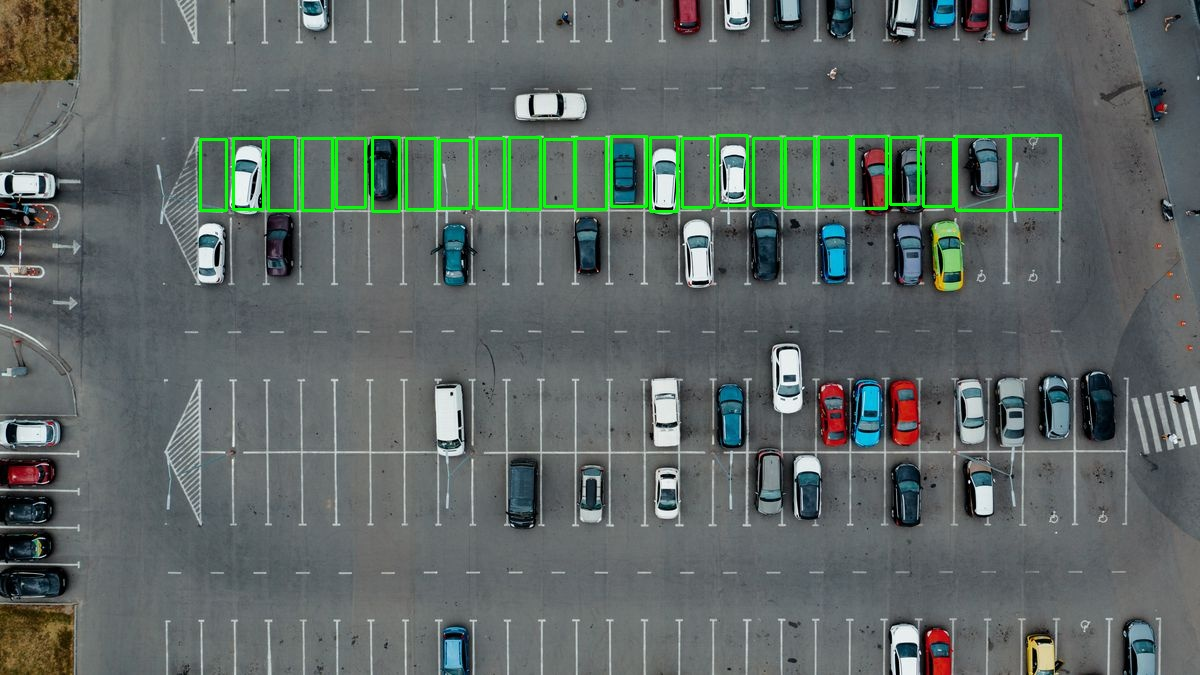
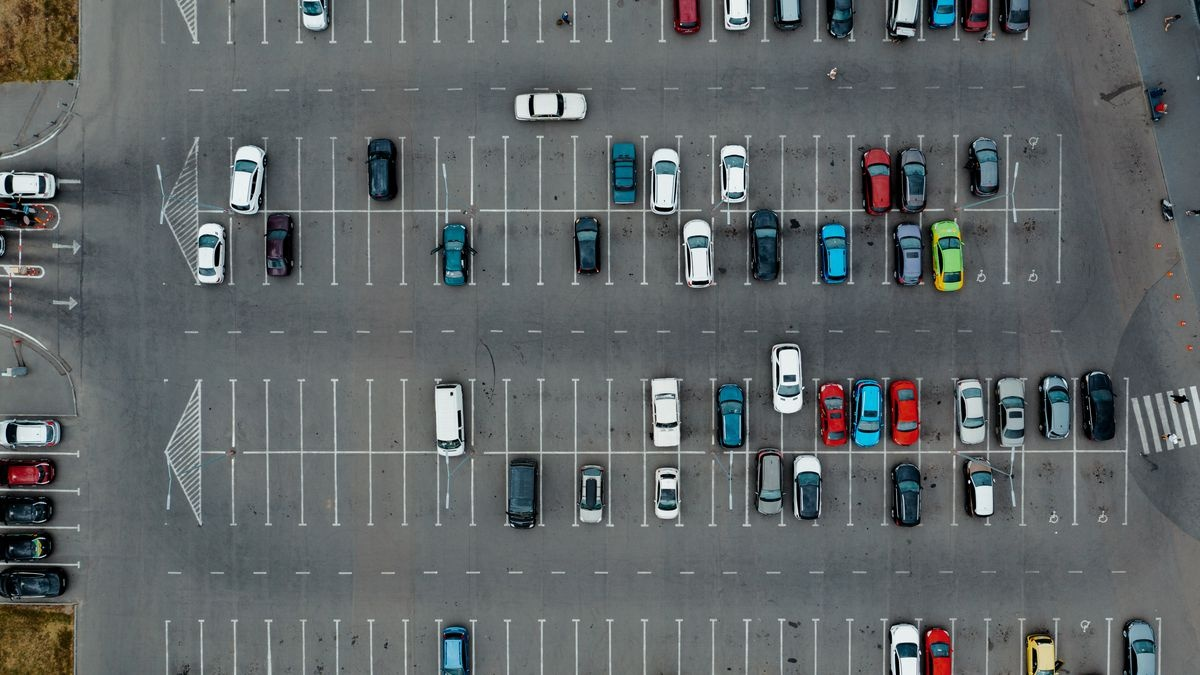
Changed data loader to accept data only for inference

Changed region(s): [[0.1542, 0.1867, 0.8942, 0.3422]]

diff --git a/patches.py b/patches.py
@@ -1,47 +1,111 @@
 import cv2
-from PIL import Image
 import matplotlib.pyplot as plt
 import xml.etree.ElementTree as ET
 import numpy as np
+import os
+from utils.model import *
+from utils.dataloader import *
+import matplotlib 
+import torch
+import argparse
+import torch.nn as nn
+import torch.optim as optim
+from torch.utils.data import DataLoader
+from torchvision import transforms
+from utils.imshow import imshow
+import cv2
+from matplotlib import pyplot as plt
+import numpy as np
+transform = transforms.Compose([
+    transforms.Resize(224),
+    #transforms.RandomResizedCrop(224),
+    transforms.ToTensor(),  # normalize to [0, 1]
+    #transforms.Normalize((0.5, 0.5, 0.5), (0.5, 0.5, 0.5))
+]) 
 
-def extract_bndbox_values(file_path):
-    tree = ET.parse(file_path)
-    root = tree.getroot()
-    bndbox_values = []
 
-    for obj in root.findall('object'):
-        bndbox = obj.find('bndbox')
-        xmin = float(bndbox.find('xmin').text)
-        ymin = float(bndbox.find('ymin').text)
-        xmax = float(bndbox.find('xmax').text)
-        ymax = float(bndbox.find('ymax').text)
-        bndbox_values.append((xmin, ymin, xmax, ymax))
 
-    return bndbox_values
+def show_image(image,image_path):
+    image_data = np.transpose(image[0], (1, 2, 0))
+    plt.imshow(image_data)
+    plt.title(image_path)
+    plt.show()
+    
 
-# Specify the path of the XML file
-xml_file = "parking.xml"
-
-# Extract the bounding box values
-bndbox_values = extract_bndbox_values(xml_file)
 
 image_cv = cv2.imread("parking.jpg")
-image_image = Image.open("parking.jpg")
+output_dir = "extracted_patches/"
+
+img_path = "extracted_patches/"
+predictions_path = "predicted_patches/"
+targets_path = "splits/CNRParkAB/dummy2.txt"
+data = Data(img_path,transform, target_path = None)
+data_loader = DataLoader(data, batch_size=1, shuffle=False, \
+                        num_workers=0, collate_fn=collate_fn)
+net = mAlexNet()
+net.load_state_dict(torch.load("model.pth"))
+
+if os.path.exists('predictions.txt'):
+    os.remove('predictions.txt')
+
+
+# Get the predictions for each image and write it to a file
+with torch.no_grad():
+        for data, data2 in zip(data_loader,data):
+            image, img_path = data
+            #show_image(image,img_path)
+            output = net(image)
+            _, predicted = torch.max(output.data, 1)
+            pred = int(predicted[0])
+            print("Predicted: ", pred)
+            
+            with open('predictions.txt', 'a') as file:
+                file.write(f'{img_path[0]} {pred}\n')
+            #images = images.to(device)
+            #image_data = np.transpose(images[0], (1, 2, 0))
+            # plt.imshow(image_data)
+            # plt.show()
+           
+# Go through the predictions file and fill the bounding boxes
+
+
+
+
+
+
+
+
 
 # Print the bounding box values
-for bndbox in bndbox_values:
-    # Extract coordinates from the bounding box
-    xmin, ymin, xmax, ymax = bndbox
+# with torch.no_grad():
+#     for i, bndbox in enumerate(bndbox_values):
+#         # Extract coordinates from the bounding box
+#         xmin, ymin, xmax, ymax, name = bndbox
+#         # Crop patch for thr image
+#         cropped_image = image_image.crop((xmin, ymin, xmax, ymax))
+        
+#         # Convert the PIL Image to NumPy ndarray
+#         image_array = np.array(cropped_image)
+#         resized_image = cv2.resize(image_array, (150, 150))
+        
+#         test_dataset = Data(output_dir + f"spot-{i}.jpg", target_path, transform)
+        
+#         test_loader = DataLoader(test_dataset, batch_size=1, shuffle=False, \
+#                         num_workers=0, collate_fn=collate_fn)
+#         # for data in test_loader:
+#         #     images, labels = data
+#         #     outputs = net(images)
+#         #     _, predicted = torch.max(outputs.data, 1)
+#         #     print("Predicted: ", int(predicted[0]))
+#         # Draw rectangles over image
+#         if(name == "busy"):
+#             cv2.rectangle(image_cv, (int(xmin), int(ymin)), (int(xmax), int(ymax)), (0, 255, 0), 2)
+#         else:
+#             cv2.rectangle(image_cv, (int(xmin), int(ymin)), (int(xmax), int(ymax)), (0, 0, 255), 2)
+
     
-    # Draw rectangles over image
-    cv2.rectangle(image_cv, (int(xmin), int(ymin)), (int(xmax), int(ymax)), (0, 255, 0), 2)
-    
-    # Crop patch for thr image
-    cropped_image = image_image.crop((xmin, ymin, xmax, ymax))
-    
-    # Convert the PIL Image to NumPy ndarray
-    image_array = np.array(cropped_image)
-    resized_image = cv2.resize(image_array, (150, 150))
+        #cv2.imwrite(output_dir + f"spot-{i}.jpg", resized_image)
+
     
     
 cv2.imwrite("image_with_boxes.jpg", image_cv)

diff --git a/test.py b/test.py
@@ -39,24 +39,23 @@ img_path = "prediction_images/"
 target_path = "splits/CNRParkAB/dummy.txt"
 
 # New dimensions for resizing
-new_width = 150
-new_height = 150
+# new_width = 150
+# new_height = 150
 
-#Iterate over the images in the directory
-for filename in os.listdir(img_path):
-    if filename.endswith(".jpg") or filename.endswith(".png"):
-        # Read the image
-        image_path = os.path.join(img_path, filename)
-        image = cv2.imread(image_path)
-        print(type(image))
-        # Resize the image
-        resized_image = cv2.resize(image, (new_width, new_height))
+# #Iterate over the images in the directory
+# for filename in os.listdir(img_path):
+#     if filename.endswith(".jpg") or filename.endswith(".png"):
+#         # Read the image
+#         image_path = os.path.join(img_path, filename)
+#         image = cv2.imread(image_path)
+#         # Resize the image
+#         resized_image = cv2.resize(image, (new_width, new_height))
         
-        output_path = os.path.join(img_path, filename)
-        cv2.imwrite(output_path, resized_image)
+#         output_path = os.path.join(img_path, filename)
+#         cv2.imwrite(output_path, resized_image)
         
 test_dataset = Data(img_path, target_path, transform)
-test_loader = DataLoader(test_dataset, batch_size=2, shuffle=False, \
+test_loader = DataLoader(test_dataset, batch_size=1, shuffle=False, \
                         num_workers=0, collate_fn=collate_fn)
 
 
@@ -73,11 +72,11 @@ with torch.no_grad():
             #image_data = np.transpose(images[0], (1, 2, 0))
             # plt.imshow(image_data)
             # plt.show()
-            print("Label: " ,labels)
+            print("Label: " ,int(labels[0]))
 
             # # labels = labels.to(device)
             outputs = net(images)
             _, predicted = torch.max(outputs.data, 1)
-            print("Predicted: ", predicted)
+            print("Predicted: ", int(predicted[0]))
 
 

diff --git a/utils/dataloader.py b/utils/dataloader.py
@@ -4,26 +4,27 @@ from PIL import Image
 
 def collate_fn(batch):
     batch = list(filter(lambda x: x is not None, batch))
-    #print(batch)
     return torch.utils.data.default_collate(batch)
 
 class Data:
-    def __init__(self, img_path, target_path, transforms = None):
-        with open(target_path, 'r') as f:
-            lines = f.readlines()
-            self.img_list = [os.path.join(img_path, i.split()[0]) for i in lines]
-            self.label_list = [i.split()[1] for i in lines]
-            self.transforms = transforms
-    
+    def __init__(self, img_path, transforms = None, target_path= None):
+        self.transforms = transforms
+        if target_path is None:
+            self.img_list= [os.path.join(img_path, i) for i in os.listdir(img_path)] 
+        else:
+            with open(target_path, 'r') as f:
+                lines = f.readlines()
+                self.img_list = [os.path.join(img_path, i.split()[0]) for i in lines]
+                self.label_list = [i.split()[1] for i in lines]
+        
     def __getitem__(self, index):
-        try:
-            img_path = self.img_list[index]
-            img = Image.open(img_path)
-            img = self.transforms(img)
+        img_path = self.img_list[index]
+        img = Image.open(img_path)
+        img = self.transforms(img)
+        if  hasattr(self, 'label_list'):
             label = self.label_list[index]
-        except:
-            return None
-        return img, label
-    
+            return img, img_path, label 
+        return img, img_path
+
     def __len__(self):
-        return len(self.label_list)
+        return len(self.img_list)

diff --git a/cut_patches.py b/cut_patches.py
@@ -1,0 +1,44 @@
+import xml.etree.ElementTree as ET
+from PIL import Image
+import os 
+import numpy as np
+import cv2
+def extract_bndbox_values(file_path):
+    tree = ET.parse(file_path)
+    root = tree.getroot()
+    bndbox_values = []
+
+    for obj in root.findall('object'):
+        bndbox = obj.find('bndbox')
+        name = obj.find('name').text
+
+        xmin = float(bndbox.find('xmin').text)
+        ymin = float(bndbox.find('ymin').text)
+        xmax = float(bndbox.find('xmax').text)
+        ymax = float(bndbox.find('ymax').text)
+        bndbox_values.append((xmin, ymin, xmax, ymax,name))
+
+    return bndbox_values
+
+# Specify the path of the XML file
+xml_file = "parking.xml"
+full_image = Image.open("parking.jpg")
+output_dir = "extracted_patches/"
+if not os.path.exists(output_dir):
+    os.makedirs(output_dir)
+# Extract the bounding box values
+bndbox_values = extract_bndbox_values(xml_file)
+
+# if os.path.exists(output_dir):
+#     os.remove(output_dir) #Operation not permitted: 'extracted_patches'
+for value in bndbox_values:
+    xmin, ymin, xmax, ymax, name = value
+     #Extract coordinates from the bounding box
+    # Crop patch for thr image
+    patch = full_image.crop((xmin, ymin, xmax, ymax))
+    image_array = np.array(patch)
+    resized_image = cv2.resize(image_array, (150, 150))
+    cv2.imwrite(f"{output_dir}{name}.jpg", resized_image)
+    #resized_image.save()
+
+

diff --git a/draw_boxes.py b/draw_boxes.py
@@ -1,0 +1,14 @@
+
+# Make dictionary with spot: id , coordinates and predicted
+
+
+file_path = 'predictions.txt'  # Replace with the path to your text file
+
+with open(file_path, 'r') as file:
+    for line in file:
+        line = line.strip()
+        if line:
+            image_path, value = line.split()
+            image_name = image_path.split('/')[-1]
+            print('Image Name:', image_name)
+            print('Value:', value)
